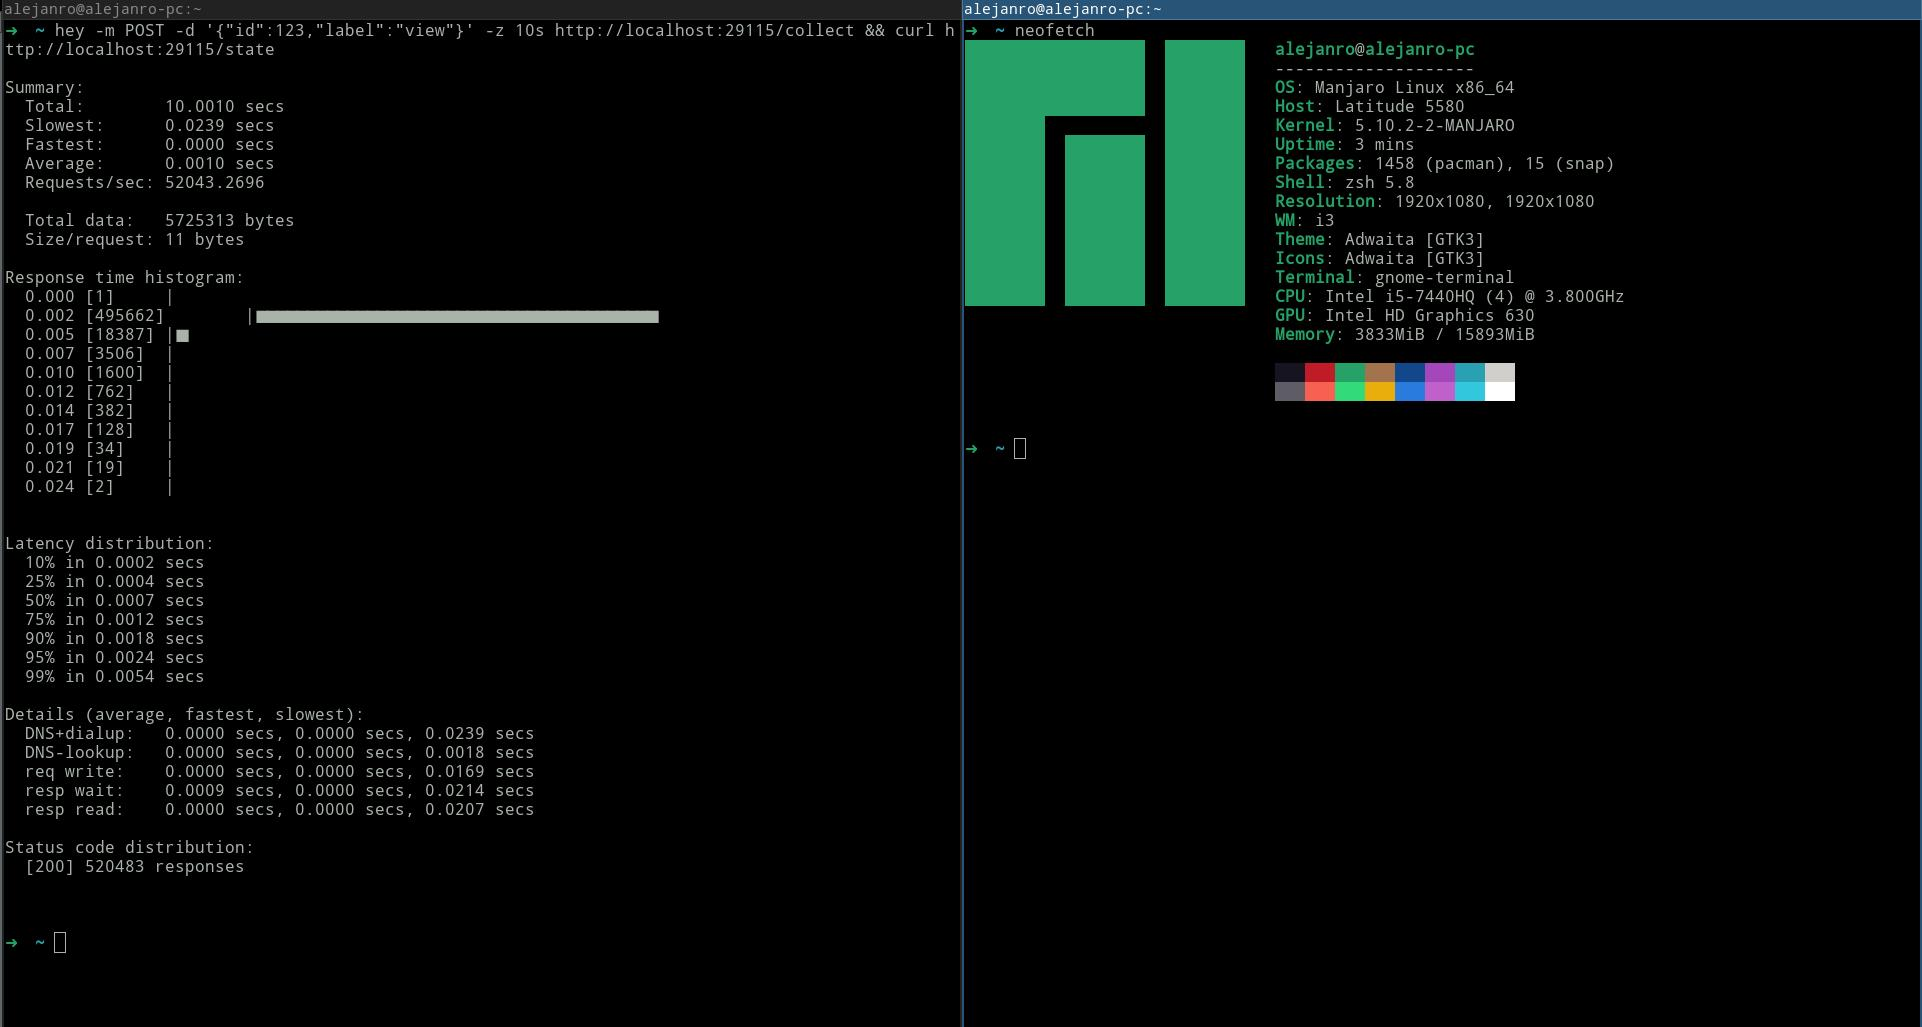
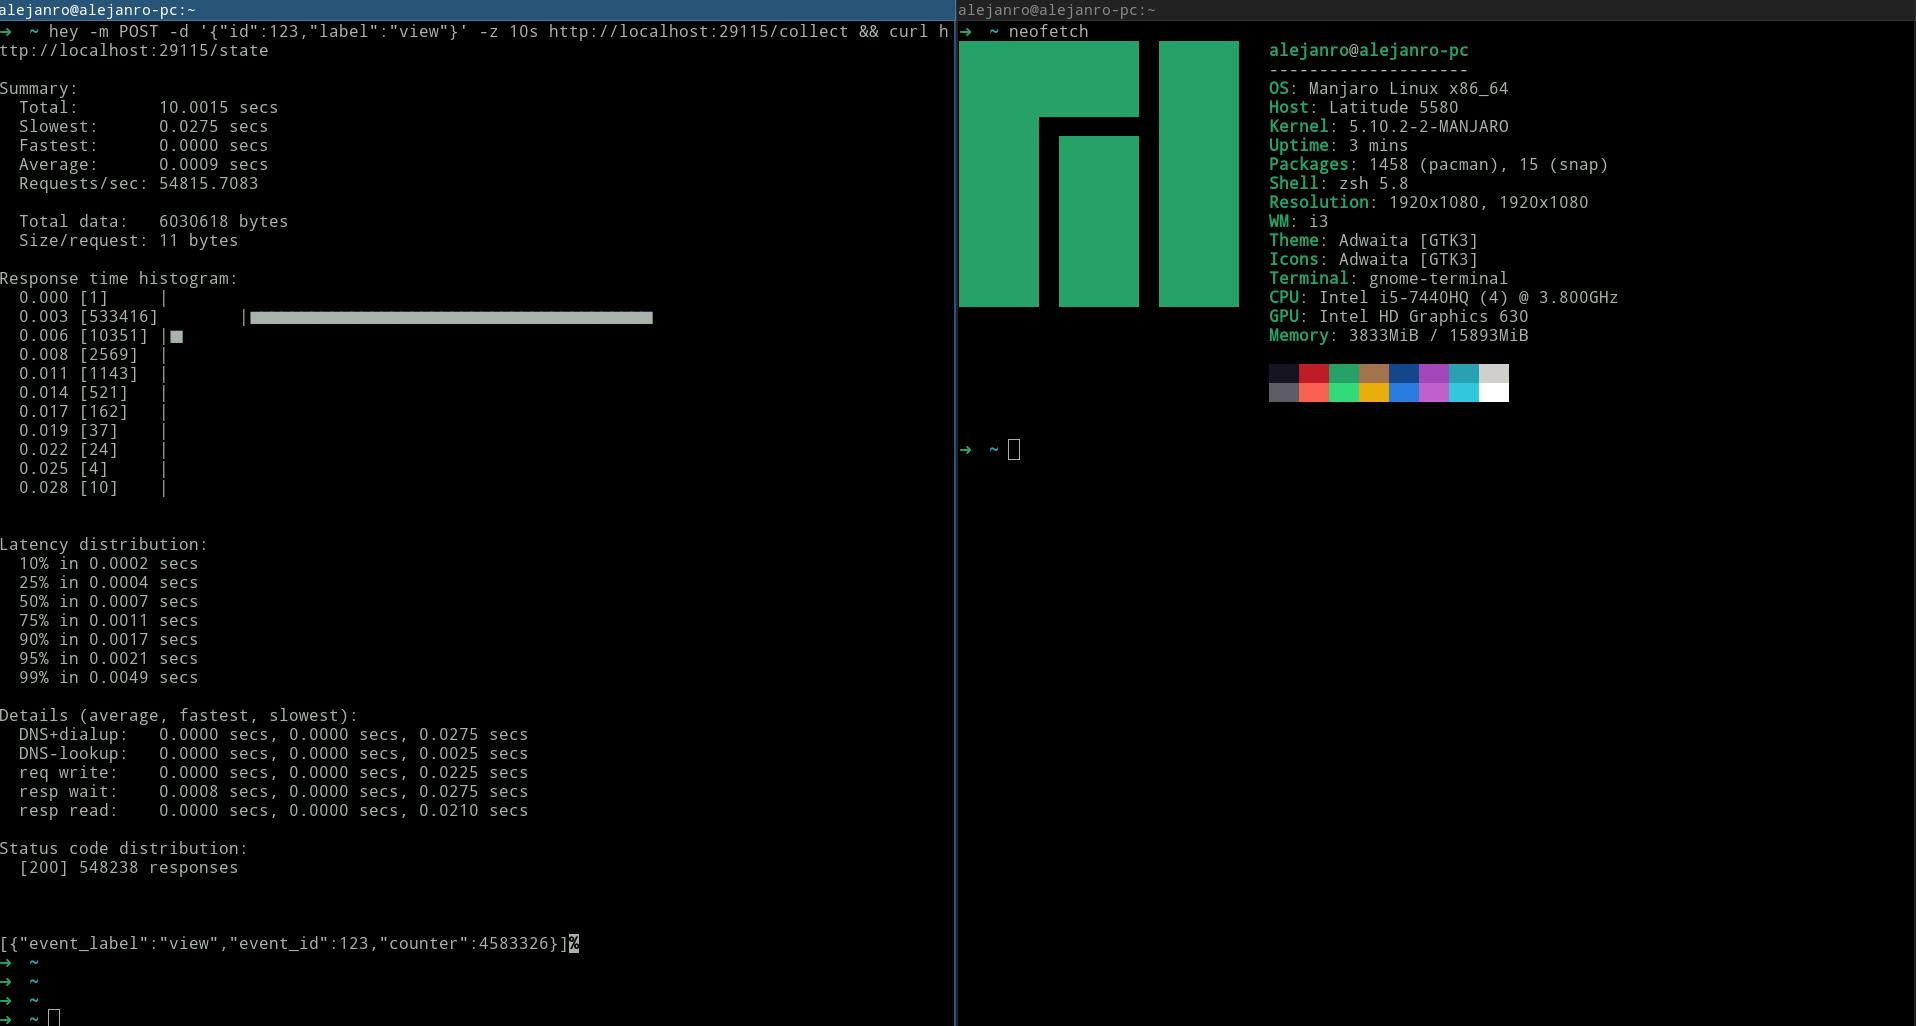
54815

diff --git a/pkg/repository/collector.go b/pkg/repository/collector.go
@@ -6,6 +6,7 @@ import (
 	"strconv"
 	"strings"
 	"sync"
+	"sync/atomic"
 	"time"
 )
 
@@ -14,31 +15,45 @@ type event struct {
 	label string
 }
 
-const rangeMax int32 = 124
+const rangeMax int32 = 4
 
 type Collector struct {
-	collector chan *event
-	dataMx    sync.Mutex
-	data      map[string]int
-	rangeMax  int32
-	db        *storage.DBConnector
+	dataMxContainer    []*sync.Mutex
+	dataContainer      []map[string]int
+	collectorContainer []chan *event
+	reqCounter         int32
+	db                 *storage.DBConnector
 }
 
 func NewCollector(db *storage.DBConnector) *Collector {
 	cl := &Collector{
-		collector: make(chan *event, 1000),
-		data:      make(map[string]int),
-		rangeMax:  rangeMax,
-		db:        db,
+		dataContainer:      make([]map[string]int, rangeMax, rangeMax),
+		collectorContainer: make([]chan *event, rangeMax, rangeMax),
+		dataMxContainer:    make([]*sync.Mutex, rangeMax, rangeMax),
+		db:                 db,
+		reqCounter:         0,
 	}
 
-	go cl.collectEvents()
-	go cl.saveEvents()
+	for i := 0; i < int(rangeMax); i++ {
+		cl.dataContainer[i] = make(map[string]int, 1000)
+		cl.collectorContainer[i] = make(chan *event, 1000)
+		cl.dataMxContainer[i] = &sync.Mutex{}
+		go cl.collectEvents(i)
+		go cl.saveEvents(i)
+	}
+
+	go func() {
+		for range time.Tick(1 * time.Second) {
+			atomic.StoreInt32(&cl.reqCounter, 0)
+		}
+	}()
+
 	return cl
 }
 
 func (cl *Collector) HandleEvent(id int32, label string) {
-	cl.collector <- &event{id: id, label: label}
+	i := atomic.AddInt32(&cl.reqCounter, 1) % rangeMax
+	cl.collectorContainer[i] <- &event{id: id, label: label}
 }
 
 func (cl *Collector) GetState() []EventStat {
@@ -50,29 +65,29 @@ func (cl *Collector) GetState() []EventStat {
 	return p
 }
 
-func (cl *Collector) collectEvents() {
-	for i := range cl.collector {
-		lbl := strconv.Itoa(int(i.id)) + "_" + i.label
-		cl.dataMx.Lock()
-		if _, ok := cl.data[lbl]; !ok {
-			cl.data[lbl] = 0
+func (cl *Collector) collectEvents(i int) {
+	for e := range cl.collectorContainer[i] {
+		lbl := strconv.Itoa(int(e.id)) + "_" + e.label
+		cl.dataMxContainer[i].Lock()
+		if _, ok := cl.dataContainer[i][lbl]; !ok {
+			cl.dataContainer[i][lbl] = 0
 		}
-		cl.data[lbl]++
-		cl.dataMx.Unlock()
+		cl.dataContainer[i][lbl]++
+		cl.dataMxContainer[i].Unlock()
 	}
 }
 
-func (cl *Collector) saveEvents() {
+func (cl *Collector) saveEvents(i int) {
 	for range time.Tick(5 * time.Second) {
-		cl.dataMx.Lock()
-		counterData := cl.data
-		cl.data = make(map[string]int)
-		cl.dataMx.Unlock()
+		cl.dataMxContainer[i].Lock()
+		counterData := cl.dataContainer[i]
+		cl.dataContainer[i] = make(map[string]int, len(counterData))
+		cl.dataMxContainer[i].Unlock()
 		values := make([]interface{}, 0, 30)
 		placeHolders := make([]string, 0, 10)
-		for i, v := range counterData {
+		for j, v := range counterData {
 			placeHolders = append(placeHolders, "(?,?,?)")
-			data := strings.Split(i, "_")
+			data := strings.Split(j, "_")
 			values = append(values, data[0], data[1], v)
 			if len(placeHolders) >= 10 {
 				cl.insertData(placeHolders, values)
